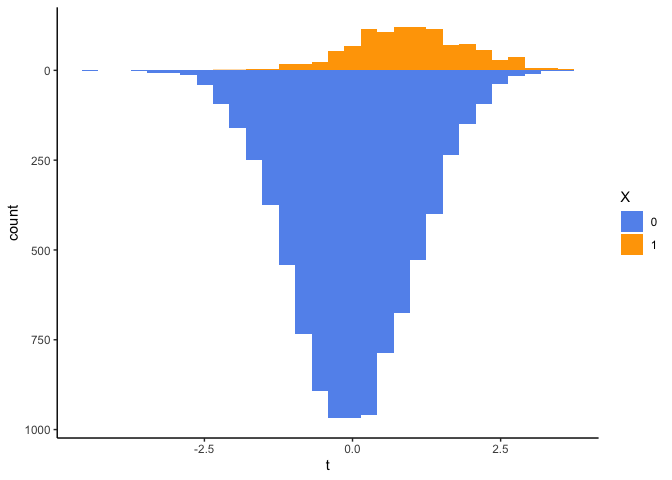
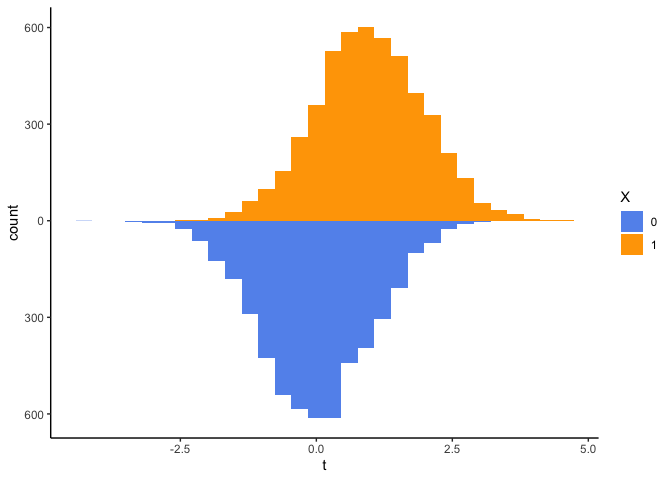
update

diff --git a/README.md b/README.md
@@ -8,18 +8,17 @@ individual’s assignment probability cannot depend on the values of
 covariates or potential outcomes of other individuals, (2) the
 assignment is *unconfounded*, the assignment mechanism cannot depend on
 the potential outcomes, and *probabilistic*, there is a non-zero
-probability for each treatment value for every individual.
-\[@imbens2015causal\] This paper focuses on the final assumption,
-sometimes referred to as *positivity*. Formally, we denote the
-continuous exposure as $T$, which takes on values in a set
-$\mathscr{T}$. For individual $i$ and each value of the exposure, $t$,
-there is a potential outcome $Y_i(t)$. \[@imbens2000role\] Each
-individual also has a vector of pre-exposure covariates, $X_i$. In the
-most general case, the assignment mechanism is defined as
-$P(T=t|\mathbf{X}, \mathbf{Y}(t))$ (with the unconfounded assumption
-this reduced to $P(T=t|\mathbf{X})$. An assignment mechanism is
-*probabilisitic* if the probability of assignment to each exposure level
-is strictly between 0 and 1:
+probability for each treatment value for every individual. (Imbens and
+Rubin 2015) This paper focuses on the final assumption, sometimes
+referred to as *positivity*. Formally, we denote the continuous exposure
+as $T$, which takes on values in a set $\mathscr{T}$. For individual $i$
+and each value of the exposure, $t$, there is a potential outcome
+$Y_i(t)$. (Imbens 2000) Each individual also has a vector of
+pre-exposure covariates, $X_i$. In the most general case, the assignment
+mechanism is defined as $P(T=t|\mathbf{X}, \mathbf{Y}(t))$ (with the
+unconfounded assumption this reduced to $P(T=t|\mathbf{X})$. An
+assignment mechanism is *probabilisitic* if the probability of
+assignment to each exposure level is strictly between 0 and 1:
 
 $$0 < P_i(X, Y(t)) < 1, \textrm{ for each possible } X, Y(t)$$
 
@@ -36,8 +35,7 @@ $$e(t, x) = P(T = t | X = x)$$
 Often, for continuous exposures this is estimated by first fitting a
 linear regression model prediction the exposure from a set of
 pre-exposure covariates. We then use the fitted values and the model
-variance in a Gaussian probability density function.
-\[@austin2019assessing\]
+variance in a Gaussian probability density function. (Austin 2019)
 
 $$e(t, x) = f_{T|X}(t|x) = \frac{1}{\sqrt{2\pi\hat\sigma^2}}\exp\left\{-\frac{(t-X\hat\beta)^2}{2\pi\hat\sigma^2}\right\}$$
 
@@ -50,12 +48,12 @@ $$w = \frac{f_T(t)}{f_{T|X}(t|x)} = \frac{\hat{\sigma}_{t|x}}{\hat\sigma_t}\exp\
 
 Violations (or near violations) of the probabilistic assumption can
 increase both the bias and variance of causal effect estimates.
-\[@petersen2012diagnosing\]. There are two ways this violation can
-arise: structural non-positivity and random non-positivity. The former
-suggests that there is a structural mechanism that makes certain levels
-of the exposure impossible for a subset of individuals. The latter are
-random violations that can occur in finite samples due to chance. This
-paper will focus on random violations of positivity, demonstrating that
+(Petersen et al. 2012). There are two ways this violation can arise:
+structural non-positivity and random non-positivity. The former suggests
+that there is a structural mechanism that makes certain levels of the
+exposure impossible for a subset of individuals. The latter are random
+violations that can occur in finite samples due to chance. This paper
+will focus on random violations of positivity, demonstrating that
 “finite” does not mean small, but rather in the case of continuous
 exposures can be any sample size that is not infinite.
 
@@ -71,14 +69,18 @@ We examine 3 scenarios:
     large effect on the outcome.
 
 We generate a binary confounder, $X$, from a Bernoulli distribution with
-probability 0.1. The continuous exposure, $T$ is generated as follows:
+probability 0.5. The continuous exposure, $T$ is generated as follows:
 
-$$T = aX + \varepsilon_{t|x}$$
+<span id="eq-t">$$
+T = aX + \varepsilon_{t|x}
+ \qquad(1)$$</span>
 
 Where $\varepsilon_{t|x}\sim N(0,1)$ and $Y$ such that the “true” effect
 of $T$ is 0:
 
-$$Y = bX + \varepsilon_{y|x}$$
+<span id="eq-y">$$
+Y = bX + \varepsilon_{y|x}
+ \qquad(2)$$</span>
 
 where $\varepsilon_{y|x}\sim N(0,1)$. We examine $a = 1, 10$ and
 $b=1,10$ for moderate and large effects, respectively. We vary the
@@ -87,8 +89,8 @@ sample size from 100 to 1,000,000, examining 100 replicates of each.
 ``` r
 library(tidyverse)
 
-s <- function(n, a = 1, b = 1) {
-  c <- rbinom(n, 1, 0.1)
+s <- function(n, a = 1, b = 1, p = 0.5) {
+  c <- rbinom(n, 1, p)
   x <- a * c + rnorm(n)
   y <- b * c + rnorm(n)
   
@@ -125,7 +127,7 @@ n <- 10000
 set.seed(1)
 
 df <- tibble(
-  x = rbinom(n, 1, 0.1),
+  x = rbinom(n, 1, 0.5),
   t = a * x + rnorm(n),
   y = b * x + rnorm(n)
 )
@@ -150,7 +152,7 @@ overlap. a = 1, b = 1, n = 10,000</figcaption>
 a <- 10
 set.seed(1)
 df <- tibble(
-  x = rbinom(n, 1, 0.1),
+  x = rbinom(n, 1, 0.5),
   t = a * x + rnorm(n),
   y = b * x + rnorm(n)
 )
@@ -193,9 +195,6 @@ which does not appreciably decrease despite the large sample size.
 ``` r
 ggplot(bias, aes(n, bias, color = fit, group = fit)) +
   geom_point(alpha = 0.1) +
-  # geom_line(data = bias %>% 
-  #             group_by(n, fit) %>% 
-  #             summarise(bias = mean(bias), .groups = "drop"), color = "white") +
   geom_smooth(color = "white") + 
   geom_hline(yintercept = 0, lty = 2) +
   theme_classic() +
@@ -205,9 +204,6 @@ ggplot(bias, aes(n, bias, color = fit, group = fit)) +
 ggplot(bias_ex, aes(n, bias, color = fit, group = fit)) +
   geom_point(alpha = 0.1) +
   geom_smooth(color = "white") + 
-  # geom_line(data = bias_ex %>% 
-  #             group_by(n, fit) %>% 
-  #             summarise(bias = mean(bias), .groups = "drop"), color = "white") +
   geom_hline(yintercept = 0, lty = 2) +
   theme_classic() +
   scale_color_manual(values = c("orange", "cornflower blue", "pink")) + 
@@ -216,9 +212,6 @@ ggplot(bias_ex, aes(n, bias, color = fit, group = fit)) +
 ggplot(bias_ou, aes(n, bias, color = fit, group = fit)) +
   geom_point(alpha = 0.1) +
   geom_smooth(color = "white") +
-  # geom_line(data = bias_ou %>% 
-  #             group_by(n, fit) %>% 
-  #             summarise(bias = mean(bias), .groups = "drop"), color = "white") +
   geom_hline(yintercept = 0, lty = 2) +
   theme_classic() +
   scale_color_manual(values = c("orange", "cornflower blue", "pink")) + 
@@ -235,3 +228,101 @@ alt="Figure 3: Boo. Look at all that bias and variance" />
 <figcaption aria-hidden="true">Figure 3: Boo. Look at all that bias and
 variance</figcaption>
 </figure>
+
+The magnitude of the variability depends on the magnitude of the effect
+of $X$ and $T$ (in [Equation 1](#eq-t) as $a$), and, for a binary
+confounder, the magnitude of the bias depends on the prevalence of the
+confounder ($p$) as well as the magnitude of the effect of $T$ and $Y$
+(in [Equation 2](#eq-y) as $b$). Below is a heatmap exploring the
+relationship between these three quantities when $n = 10,000$
+
+``` r
+params <- expand_grid(n = 10000, 
+                      p = seq(0.1, 0.5, by = 0.1), 
+                      a = seq(2, 10, by = 2), 
+                      b = seq(2, 10, by = 2))
+
+set.seed(1)
+B <- 1000
+bias_p <- map(1:B, ~ pmap(params, s))
+```
+
+``` r
+d <- do.call(rbind, unlist(bias_p, recursive = FALSE)) %>%
+  filter(fit == "propensity score weighted") %>%
+  mutate(p = rep(params$p, B),
+         a = rep(params$a, B),
+         b = rep(params$b, B))
+
+d %>%
+ group_by(a, b, p) %>%
+ summarise(bias = mean(bias), .groups = "drop") %>%
+ggplot(aes(x = a, y = b, fill = bias)) + 
+  geom_tile() + 
+  facet_grid(~p)
+```
+
+<figure>
+<img src="README_files/figure-gfm/fig-heatmap-bias-1.png"
+id="fig-heatmap-bias"
+alt="Figure 4: Impact of the prevalence of X, magnitude of the effect between X and T, and magnitude of the effect between X and Y on the bias of the observed exposure effect." />
+<figcaption aria-hidden="true">Figure 4: Impact of the prevalence of X,
+magnitude of the effect between X and T, and magnitude of the effect
+between X and Y on the bias of the observed exposure
+effect.</figcaption>
+</figure>
+
+``` r
+d %>%
+ group_by(a, b, p) %>%
+ summarise(sd = sd(bias), .groups = "drop") %>%
+ggplot(aes(x = a, y = b, fill = sd)) + 
+  geom_tile() + 
+  facet_grid(~p)
+```
+
+<figure>
+<img src="README_files/figure-gfm/fig-heatmap-sd-1.png"
+id="fig-heatmap-sd"
+alt="Figure 5: Impact of the prevalence of X, magnitude of the effect between X and T, and magnitude of the effect between X and Y on the variability in the observed exposure effect." />
+<figcaption aria-hidden="true">Figure 5: Impact of the prevalence of X,
+magnitude of the effect between X and T, and magnitude of the effect
+between X and Y on the variability in the observed exposure
+effect.</figcaption>
+</figure>
+
+<div id="refs" class="references csl-bib-body hanging-indent">
+
+<div id="ref-austin2019assessing" class="csl-entry">
+
+Austin, Peter C. 2019. “Assessing Covariate Balance When Using the
+Generalized Propensity Score with Quantitative or Continuous Exposures.”
+*Statistical Methods in Medical Research* 28 (5): 1365–77.
+
+</div>
+
+<div id="ref-imbens2000role" class="csl-entry">
+
+Imbens, Guido W. 2000. “The Role of the Propensity Score in Estimating
+Dose-Response Functions.” *Biometrika* 87 (3): 706–10.
+
+</div>
+
+<div id="ref-imbens2015causal" class="csl-entry">
+
+Imbens, Guido W, and Donald B Rubin. 2015. *Causal Inference in
+Statistics, Social, and Biomedical Sciences*. Cambridge University
+Press.
+
+</div>
+
+<div id="ref-petersen2012diagnosing" class="csl-entry">
+
+Petersen, Maya L, Kristin E Porter, Susan Gruber, Yue Wang, and Mark J
+Van Der Laan. 2012. “Diagnosing and Responding to Violations in the
+Positivity Assumption.” *Statistical Methods in Medical Research* 21
+(1): 31–54.
+
+</div>
+
+</div>
